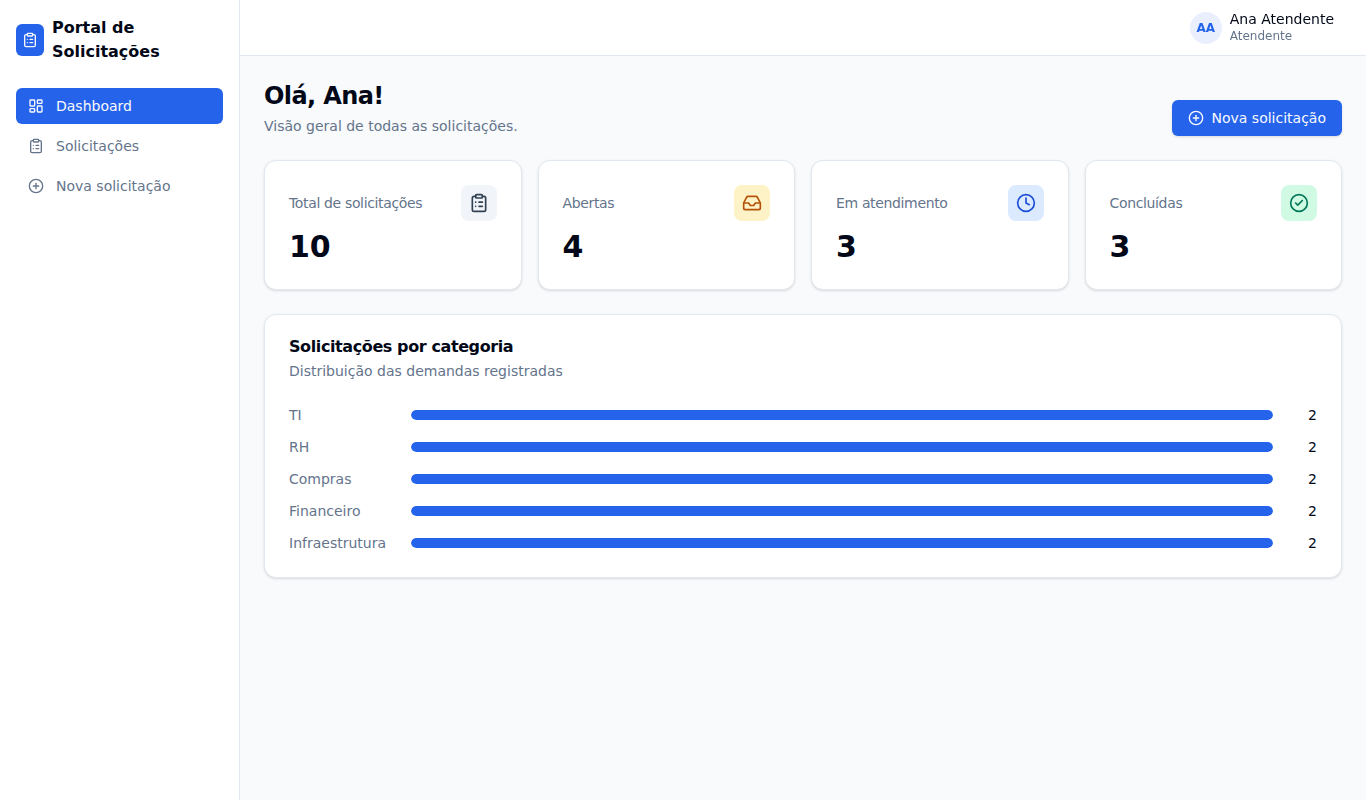
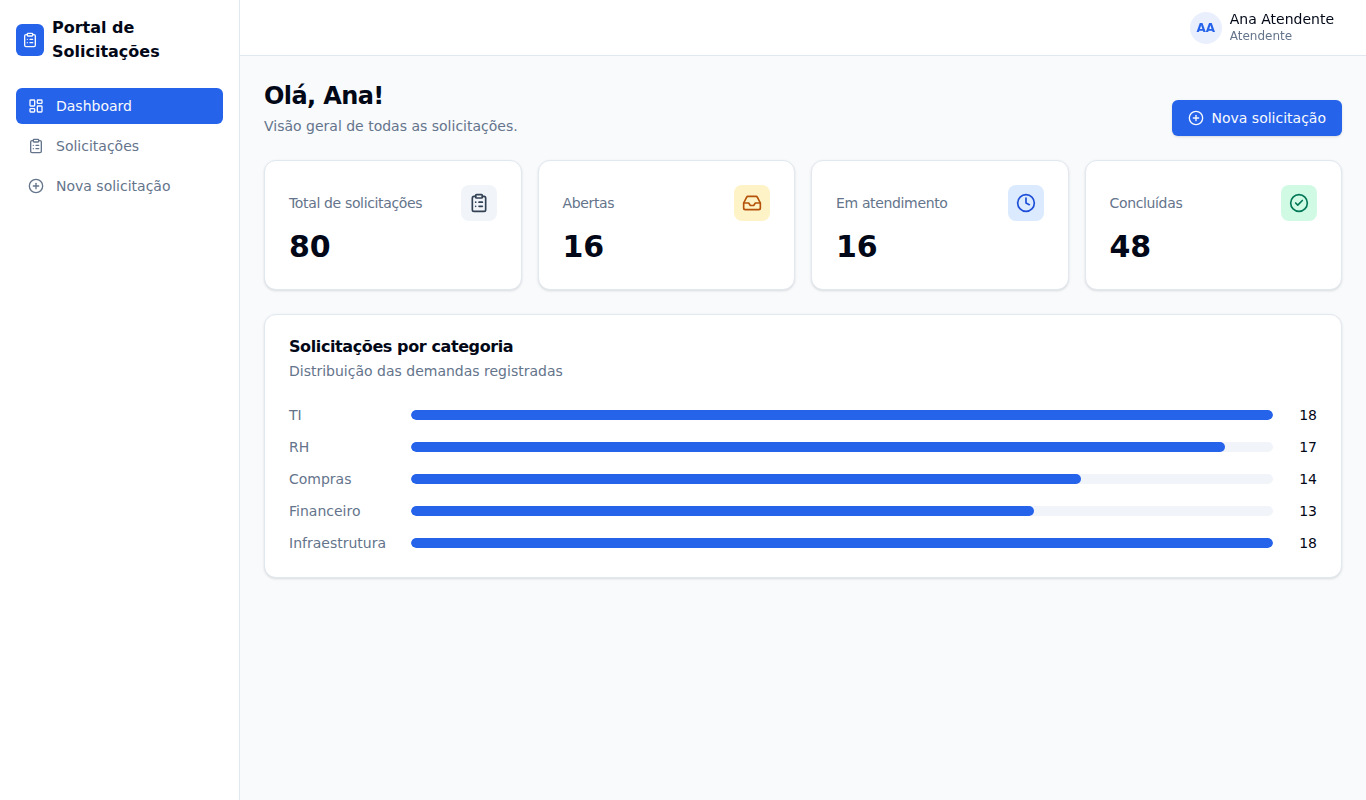
docs: documenta a coleção bruno e os dados fictícios do seed
- README: seção "Testando a API com o Bruno" (app e CLI), usuários e
  volume dos dados fictícios, variável LOGIN_RATE_LIMIT, contagem de
  testes e estrutura do repositório atualizadas
- Memorial técnico: justificativa do Bruno e do seed determinístico,
  e o novo comportamento do rate limit
- Capturas de tela atualizadas com a base de 80 solicitações

Claude-Session: https://claude.ai/code/session_014aLtVCVD83izTTqVFMescD

diff --git a/README.md b/README.md
@@ -25,6 +25,7 @@ Portal web para que colaboradores registrem demandas internas (TI, RH, Compras, 
 - [Execução](#execução)
 - [Acesso e usuários de teste](#acesso-e-usuários-de-teste)
 - [Testes automatizados](#testes-automatizados)
+- [Testando a API com o Bruno](#testando-a-api-com-o-bruno)
 - [Referência da API](#referência-da-api)
 - [Solução de problemas](#solução-de-problemas)
 
@@ -67,7 +68,7 @@ O Nginx serve o frontend e encaminha `/api` para a API, de modo que **frontend e
 ```
 .
 ├── backend/                  # API REST (Node.js + Express + Prisma)
-│   ├── prisma/               # schema.prisma, migrations e seed
+│   ├── prisma/               # schema.prisma, migrations, seed e dados fictícios (seed-data.ts)
 │   ├── src/
 │   │   ├── config/           # variáveis de ambiente (validadas com zod) e cookies
 │   │   ├── lib/              # Prisma Client e JWT
@@ -85,6 +86,7 @@ O Nginx serve o frontend e encaminha `/api` para a API, de modo que **frontend e
 │   │   ├── pages/            # telas
 │   │   └── services/         # cliente HTTP (axios)
 │   └── Dockerfile
+├── bruno/                    # coleção Bruno para testar a API
 ├── docs/
 │   ├── MEMORIAL_TECNICO.md
 │   └── screenshots/
@@ -235,6 +237,7 @@ Todas possuem valor padrão; o `.env` é opcional.
 | `JWT_EXPIRES_IN` | `8h` | Duração da sessão (`30m`, `8h`, `1d`...) |
 | `CORS_ORIGIN` | `http://localhost:8080` | Origens permitidas (separadas por vírgula) para acesso direto à API |
 | `COOKIE_SECURE` | `false` | `true` quando servido via HTTPS |
+| `LOGIN_RATE_LIMIT` | `20` | Tentativas de login **malsucedidas** permitidas por IP a cada 15 minutos |
 | `WEB_PORT` | `8080` | Porta do frontend exposta no host |
 
 ### Variáveis de ambiente — Backend local (`backend/.env`)
@@ -247,6 +250,7 @@ Todas possuem valor padrão; o `.env` é opcional.
 | `JWT_EXPIRES_IN` | `8h` | Duração da sessão |
 | `CORS_ORIGIN` | `http://localhost:5173` | Origem do frontend |
 | `COOKIE_SECURE` | `false` | Cookie apenas em HTTPS |
+| `LOGIN_RATE_LIMIT` | `20` | Tentativas de login malsucedidas por IP a cada 15 minutos |
 | `NODE_ENV` | `development` | `development`, `test` ou `production` |
 
 As variáveis são validadas na inicialização (zod); valores inválidos interrompem a API com uma mensagem clara.
@@ -308,8 +312,17 @@ Outros scripts:
 | `colaborador` | `colaborador123` | Colaborador | Criar, editar e excluir solicitações abertas; acompanhar o status das próprias solicitações |
 | `maria` | `maria123` | Colaborador | Mesmo perfil, com outras solicitações (verifica o isolamento entre colaboradores) |
 | `atendente` | `atendente123` | Atendente | Ver todas as solicitações, alterar status e consultar o histórico |
+| `bruno.lima` | `senha123` | Atendente | Segundo atendente (aparece no histórico das solicitações de exemplo) |
 
-O banco já inicia com **10 solicitações** de exemplo, distribuídas entre categorias, status e datas, para facilitar o teste dos filtros e do dashboard.
+### Dados fictícios (seed)
+
+Na primeira subida, o banco é populado automaticamente com dados fictícios, gerados por `backend/prisma/seed-data.ts`:
+
+- **12 usuários**: os 4 acima e mais 8 colaboradores fictícios, todos com a senha `senha123` (`joao.pereira`, `fernanda.alves`, `ricardo.santos`, `juliana.costa`, `paulo.mendes`, `camila.rocha`, `lucas.martins`, `beatriz.oliveira`);
+- **80 solicitações** abertas nos **últimos 90 dias**, em todas as categorias, com títulos e descrições realistas;
+- **status coerentes com a idade** da solicitação (as antigas tendem a estar concluídas) e **histórico completo** de cada mudança, feita por um dos atendentes.
+
+A geração é determinística e o seed é idempotente: reiniciar a API não duplica dados. Para recriar a base do zero, execute `docker compose down -v` e suba novamente.
 
 ### Roteiro sugerido
 
@@ -325,7 +338,7 @@ O banco já inicia com **10 solicitações** de exemplo, distribuídas entre cat
 Ambos os projetos usam **Jest**. Os testes não dependem de banco de dados nem da API em execução.
 
 ```bash
-cd backend && npm test      # 38 testes: rotas HTTP (Supertest) com Prisma mockado
+cd backend && npm test      # 44 testes: rotas HTTP (Supertest) com Prisma mockado e gerador do seed
 cd frontend && npm test     # 29 testes: componentes, páginas e utilitários (Testing Library + jsdom)
 ```
 
@@ -333,7 +346,43 @@ Use `npm run test:coverage` para o relatório de cobertura (`coverage/`).
 
 | Backend | Frontend |
 | --- | --- |
-| Login/logout/sessão, validação de entrada, CRUD com regras de dono e status, alteração de status (RBAC + histórico), filtros, dashboard e utilitários | Login, rota protegida, dashboard, formulário de solicitação, filtros, tabela/ações por perfil, badges e utilitários |
+| Login/logout/sessão, validação de entrada, CRUD com regras de dono e status, alteração de status (RBAC + histórico), filtros, dashboard, utilitários e dados fictícios do seed | Login, rota protegida, dashboard, formulário de solicitação, filtros, tabela/ações por perfil, badges e utilitários |
+
+---
+
+## Testando a API com o Bruno
+
+O diretório [`bruno/`](bruno) contém uma coleção do [Bruno](https://www.usebruno.com/), cliente de API *open source*, com **32 requisições** e **59 asserções** que percorrem todos os fluxos da API.
+
+| Pasta | O que cobre |
+| --- | --- |
+| `01 Health` | Health check |
+| `02 Autenticacao` | Login inválido e válido, validação, sessão atual, logout e sessão encerrada |
+| `03 Solicitacoes - Colaborador` | Criar (com campos automáticos), validação, listar, filtrar (período, categoria, status e texto), detalhar, editar e tentar alterar status (403) |
+| `04 Atendimento` | Listar todas, iniciar e concluir atendimento com histórico, status repetido (409) ou inválido (400), edição por não solicitante (403) e 404 |
+| `05 Dashboard` | Indicadores do atendente e do colaborador |
+| `06 Exclusao` | Exclusão bloqueada (409), exclusão de solicitação aberta (204) e consulta após excluir (404) |
+
+### No aplicativo Bruno
+
+1. Instale o Bruno: <https://www.usebruno.com/downloads>.
+2. **Open Collection** → selecione a pasta `bruno/` do repositório.
+3. No seletor de ambientes (canto superior direito), escolha:
+   - **Docker**: `http://localhost:8080/api` (via Nginx, após `./start.sh`);
+   - **Local**: `http://localhost:3333/api` (API direta, Docker ou `npm run dev`).
+4. Execute as requisições individualmente, em ordem, ou a coleção inteira pelo **Runner** (botão *Run* da coleção).
+
+A sessão é automática: as requisições de login guardam o token na variável `token`, e o cabeçalho `Cookie` da coleção o envia nas chamadas seguintes. As requisições são encadeadas (por exemplo, o código da solicitação criada fica em `requestId`), por isso o Runner executa as pastas em ordem.
+
+### Pela linha de comando
+
+```bash
+npm install -g @usebruno/cli
+cd bruno
+bru run --env Docker      # ou: bru run --env Local
+```
+
+A coleção pode ser executada várias vezes seguidas: cada execução cria os próprios registros. Só as tentativas de login malsucedidas contam para o limite `LOGIN_RATE_LIMIT`.
 
 ---
 

diff --git a/docs/MEMORIAL_TECNICO.md b/docs/MEMORIAL_TECNICO.md
@@ -70,7 +70,7 @@ Como o Nginx (ou o proxy do Vite em desenvolvimento) serve a SPA e a API **na me
 | **cookie-parser** | 1.4 | Leitura do cookie de sessão `httpOnly`. |
 | **helmet** | 8 | Cabeçalhos HTTP de segurança (CSP, `X-Content-Type-Options`, HSTS e outros) com configuração mínima. |
 | **cors** | 2.8 | Controle das origens autorizadas a chamar a API diretamente (útil em desenvolvimento ou se o frontend for hospedado em outro domínio). |
-| **express-rate-limit** | 8 | Limita as tentativas de login (20 a cada 15 minutos por IP) para mitigar força bruta. |
+| **express-rate-limit** | 8 | Limita as tentativas de login **malsucedidas** (padrão: 20 a cada 15 minutos por IP, configurável em `LOGIN_RATE_LIMIT`) para mitigar força bruta, sem bloquear o uso legítimo. |
 | **dotenv** | 18 | Carrega o `backend/.env` em desenvolvimento, sem sobrescrever variáveis já definidas pelo Docker/CI. |
 | **tsx** | 4 | Executa TypeScript diretamente com *watch* no desenvolvimento (`npm run dev`), sem etapa de build. |
 
@@ -100,7 +100,7 @@ Como o Nginx (ou o proxy do Vite em desenvolvimento) serve a SPA e a API **na me
 | **jest-mock-extended** | Backend | *Mock* profundo e tipado do `PrismaClient`. Os testes rodam em segundos, sem banco, e verificam exatamente as consultas enviadas ao ORM (filtros, escopo por usuário, histórico). |
 | **Testing Library** (React, user-event, jest-dom) + **jsdom** | Frontend | Testes orientados ao comportamento do usuário (encontrar por rótulo/papel, digitar, clicar), resistentes a refatorações internas, que reforçam a acessibilidade da interface. |
 
-Totais atuais: **38 testes no backend** e **29 no frontend**. Além deles, o fluxo completo foi verificado manualmente de ponta a ponta no ambiente Docker (login, CRUD, alteração de status, filtros, logout, desktop e mobile).
+Totais atuais: **44 testes no backend** (incluindo o gerador de dados fictícios do seed) e **29 no frontend**. Além deles, o fluxo completo foi verificado manualmente de ponta a ponta no ambiente Docker (login, CRUD, alteração de status, filtros, logout, desktop e mobile).
 
 ### 3.5 Infraestrutura e ferramentas
 
@@ -110,6 +110,8 @@ Totais atuais: **38 testes no backend** e **29 no frontend**. Além deles, o flu
 | **Docker Compose** | Orquestra `db`, `api` e `web` com *healthchecks* e ordem de inicialização (`depends_on: service_healthy`), volume persistente para o banco e variáveis com valores padrão. Assim, `docker compose up` funciona mesmo sem `.env`. |
 | **Nginx** (alpine) | Serve os arquivos estáticos da SPA com *fallback* de rotas, compressão gzip e cache de *assets* com hash. Atua como **proxy reverso** de `/api`, colocando frontend e API na mesma origem. |
 | **Entrypoint da API** | Aplica `prisma migrate deploy` e o **seed idempotente** a cada subida: o primeiro acesso já tem usuários e dados de exemplo, e reinícios não duplicam registros. |
+| **Seed com dados fictícios** | `prisma/seed-data.ts` gera 12 usuários e 80 solicitações nos últimos 90 dias, com status proporcionais à idade e histórico coerente. A geração usa um PRNG com semente fixa (determinística) e fica separada do acesso ao banco, o que permite testá-la. Assim, filtros, paginação e dashboard podem ser avaliados com volume realista logo na primeira subida. |
+| **Bruno** | Cliente de API *open source* cujas coleções são arquivos de texto (`.bru`) versionados junto com o código, sem conta nem nuvem. A coleção em `bruno/` documenta e testa os endpoints com asserções, nos ambientes Docker e Local, e roda no app ou pela CLI (`bru run`), podendo ser usada em CI. |
 | **start.sh / start.ps1** | Um único comando (Linux/macOS e Windows) para subir a aplicação, aguardar a saúde da API e exibir URL e credenciais. |
 | **Prettier** | Formatação consistente do código (`.prettierrc` na raiz). |
 | **EditorConfig** / **.gitattributes** | Padronizam a indentação e as quebras de linha. O `.gitattributes` força LF nos scripts `.sh`, evitando que o entrypoint quebre ao clonar no Windows. |
